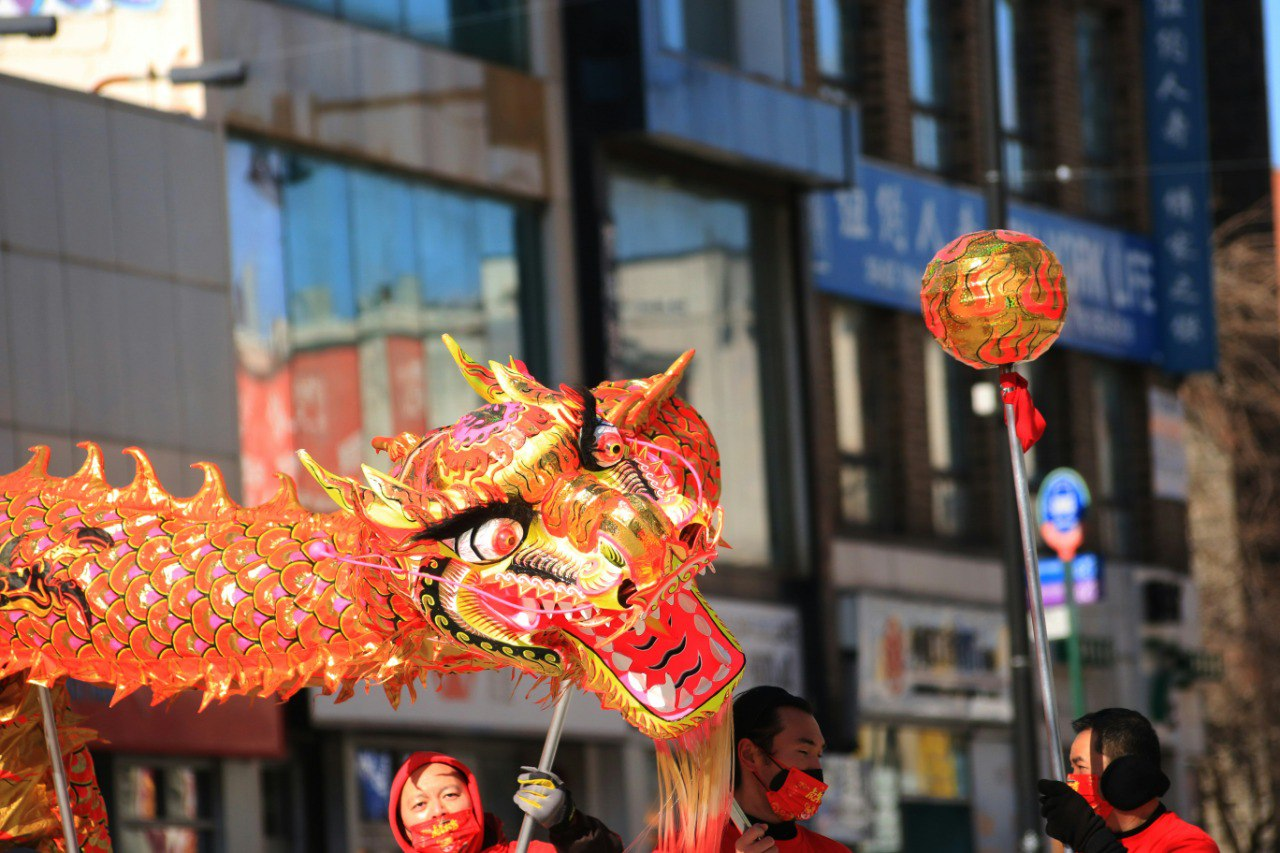
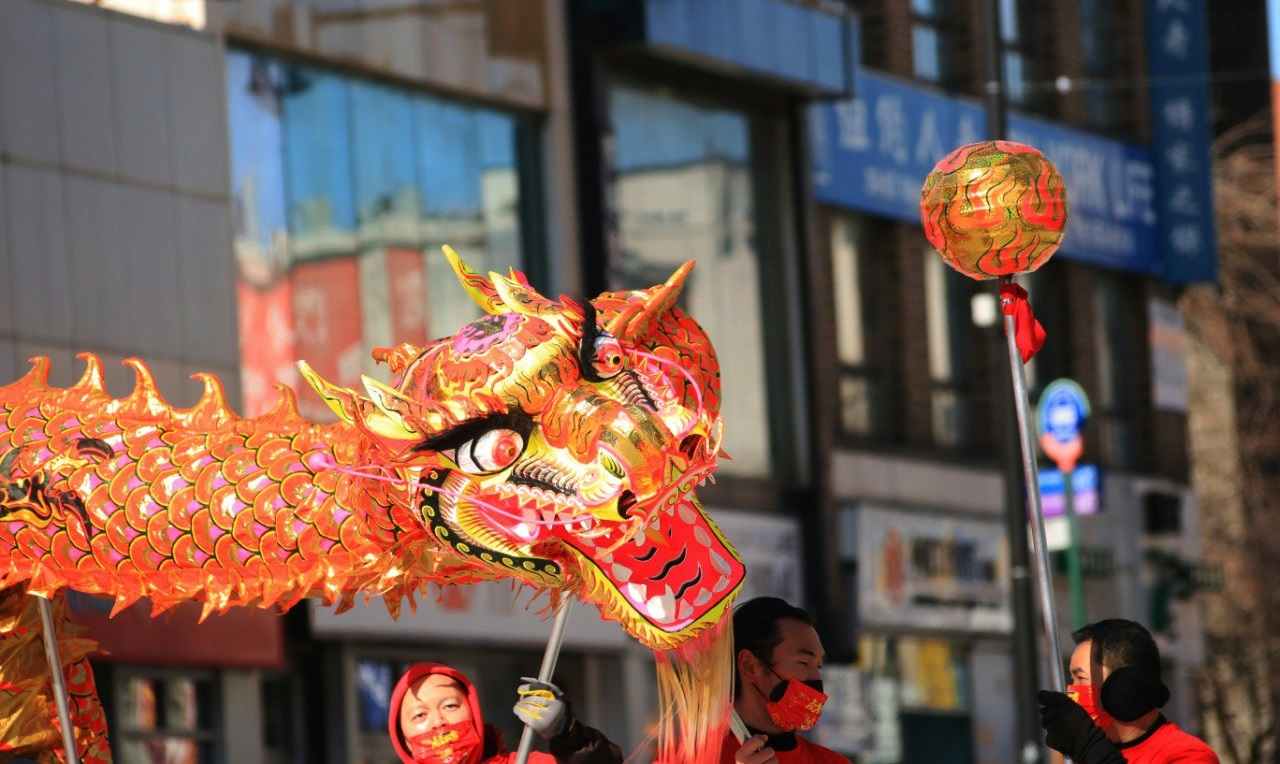
update

diff --git a/src/pages/vision/vision.js b/src/pages/vision/vision.js
@@ -34,27 +34,14 @@ export default function Vision() {
           style={{ width: '100%' }}
         />
       </div> */}
-      <div className="w-full bg-center bg-cover h-[100vh]" style={{ backgroundImage: "url(./img/gallery/gallery6.jpg )"}}></div>
+      <div className="w-full bg-center bg-cover h-[100vh]" style={{ backgroundImage: "url(./img/gallery/gallery20.jpg )"}}></div>
       <div className="px-4 content-center z-10 relative" style={{ backgroundColor: "#B68064" }} >
-        <div className="md:min-h-[100vh] content-center py-10 md:py-96">
-          <div className="m-auto">
-            <p className="text-sm font-GTPressura-Bold text-center text-white pb-5">VISION</p>
-          </div>
-          <div className="xl:w-[600px] m-auto">
-            <p className="text-center font-GTPressura-Light text-4xl text-white px-4">The Huron: Our Vision for Greenpoint’s Newest Condos</p>
-          </div>
-          <div className="flex items-center">
-            <div className="w-auto mx-auto xl:w-1/3">
-              <p className="text-base font-GTPressura-Light text-center text-white px-4">Rooted in the history of an ever-evolving neighborhood, The Huron is a striking tribute to Greenpoint’s heritage, interweaving past and present through stunning design and inspired creativity.</p>
-            </div>                    
-          </div>
-        </div>
-        <div className="px-4 relative">
+        <div className="px-4 relative mt-[40px]">
           <div className="m-auto">
             <p className="text-sm font-GTPressura-Bold text-center text-white pb-5">A BRIEF HISTORY</p>
           </div>
           <div className="xl:w-[600px] m-auto">
-            <p className="text-center font-GTPressura-Light text-4xl text-white px-4">A quintessential NYC Story</p>
+            <p className="text-center font-GTPressura-Light text-[45px] text-white px-4">A quintessential NYC Story</p>
           </div>
         </div>
         <div>

diff --git a/src/components/Footer.js b/src/components/Footer.js
@@ -124,7 +124,7 @@ return (
               <div className="w-full flex">
               <img alt="" src={director} className="footer_avatar mx-auto"/></div>
               <div className="py-8 w-full space-y-1 xl:border-r-[1px] flex">
-                <div className="w-[300px] mx-auto">
+                <div className="w-[300px] sm:mx-auto">
                   <p className="light_text_lg font-bold"> Barbie Li</p>
                   <p className="light_text_small"> Lic. R.E. Broker</p>
                   <p className="light_text_small"> Team Leader of BLT</p>
@@ -173,7 +173,7 @@ return (
                 </button>
               </div>
               <div className="w-full py-5 md:py-10 md:mx-6 flex">
-                <div className="w-full xl:w-[200px] mx-auto">
+                <div className="w-full">
                   <p className="text-main-bg mb-6">More information </p>
                   <button className="mt-0 footer_form_button w-full animate-duration" onClick={() => navigate("/contact")}>
                     contact us <span className="md:float-right">{'>'}</span>

diff --git a/src/components/Button/CustomButton.js b/src/components/Button/CustomButton.js
@@ -13,19 +13,20 @@ function CustomButton({ label, width, backgroundColor, fontColor, outline, centr
 
   const customStyles = {
     width: width,
-    backgroundColor: !hovered ? backgroundColor : '#F1ECE2',
-    border: outline ? `1px solid #F1ECE2` : 'none',
+    backgroundColor: !hovered ? backgroundColor : '#153644',
+    border: outline ? `1px solid #153644` : 'none',
     cursor: 'pointer',
     transition: 'background-color 0.3s ease, color 0.3s ease',
     padding: '2px',
     textAlign: "center",
     margin: centre ? 'auto' : 'none',
-    color: !hovered? fontColor : '#153644' 
+    color: !hovered? fontColor : '#F3EBDD',
+    height : "39px",
   };
 
   return (
     <div
-      className="custom-button"
+      className="custom-button text-[20px]"
       style={customStyles}
       onMouseEnter={handleMouseEnter}
       onMouseLeave={handleMouseLeave}

diff --git a/src/index.css b/src/index.css
@@ -23,7 +23,7 @@
     @apply text-main-bg flex flex-col after:bg-blue-gray-50 after:transition-all after:h-[1px]
   }
   .footer_form_input {
-    @apply p-4 w-full sm:w-[300px] focus:outline-none text-main-bg border-[1px] border-main-bg
+    @apply p-4 w-full focus:outline-none text-main-bg border-[1px] border-main-bg
   }
   .footer_form_button {
     @apply bg-brown-bg p-4 w-full md:w-[100px] text-left text-main-bg text-[20px] font-sans hover:text-brown-bg hover:bg-main-bg mt-2

diff --git a/src/pages/contact/contact.js b/src/pages/contact/contact.js
@@ -240,10 +240,10 @@ export default function Contact() {
             </div>
             <div className="pt-5">
               <CustomButton
-                backgroundColor="#153644"
-                outline={false}
+                backgroundColor="#F3EBDD"
+                outline={true}
                 label="Submit"
-                fontColor="#F1ECE2"
+                fontColor="#212529"
                 width={150}
                 onClick={onSubmit}
               />

diff --git a/src/pages/neighborhood/neighborhood.js b/src/pages/neighborhood/neighborhood.js
@@ -74,7 +74,7 @@ export default function Neighborhood() {
     <div>
       <div
         className="w-full h-screen bg-cover bg-center"
-        style={{ backgroundImage: `url(${"./img/neighborhood/1.jpg"})` }}
+        style={{ backgroundImage: `url(${"./img/neighborhood/carousel-6.jpg"})` }}
       />
       <div className="px-4 content-center z-10 relative bg-main-bg">
         <div className="content-center py-20">
